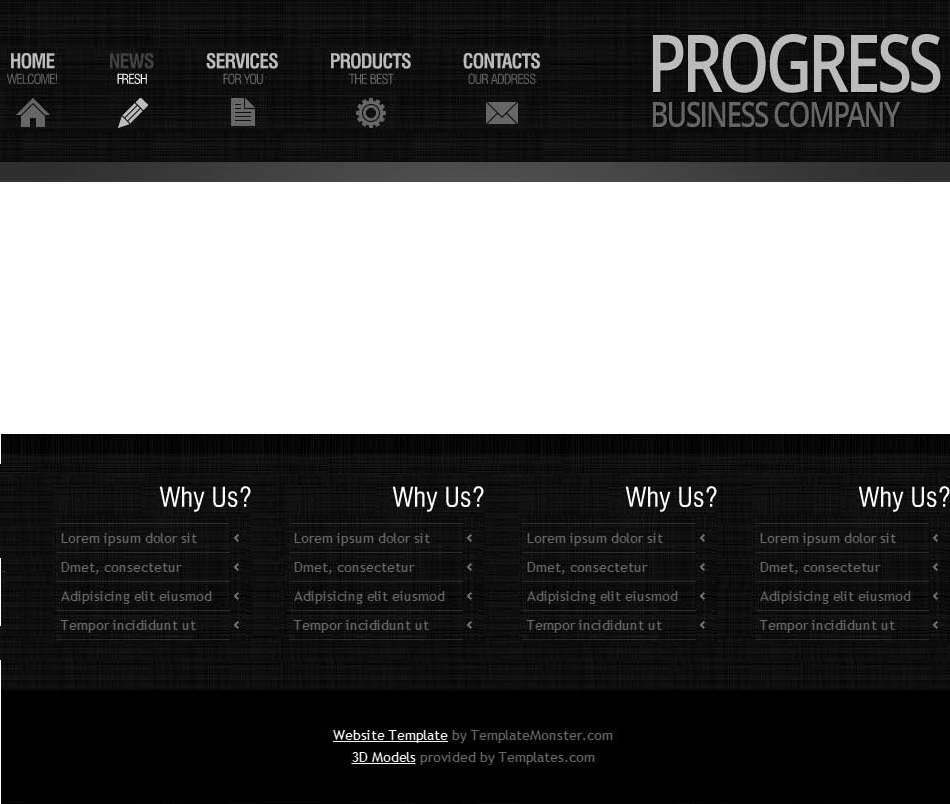
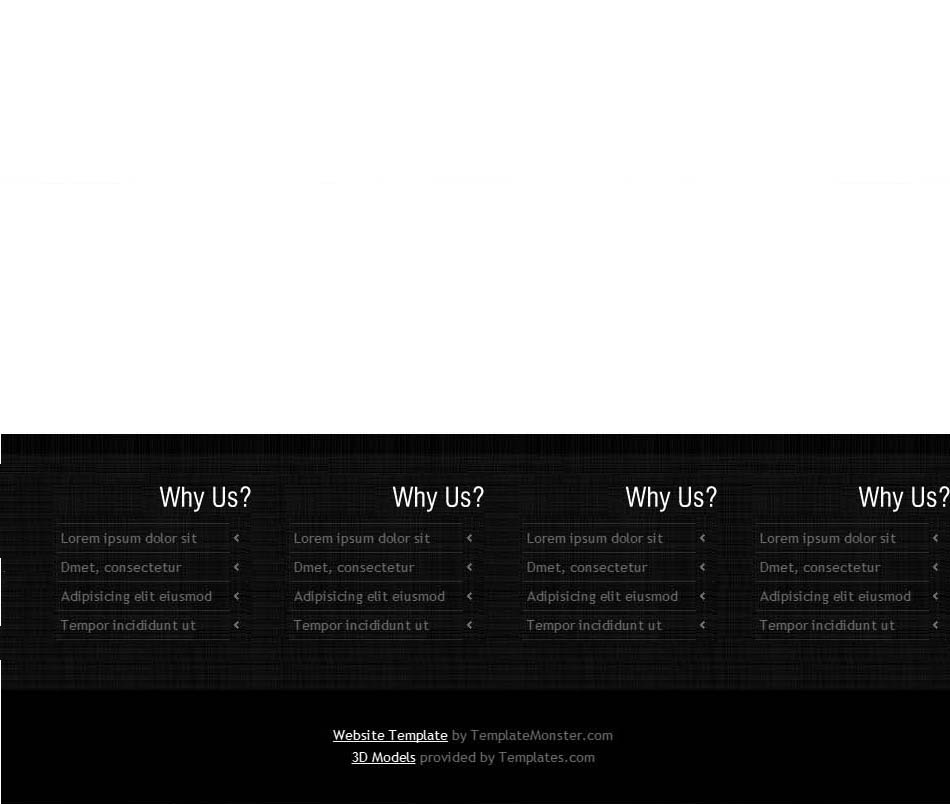
delete back guide and put some color and style to layout.

Changed region(s): [[0.0, 0.0, 1.0, 0.2488]]

diff --git a/Finall Project/index.html b/Finall Project/index.html
@@ -11,7 +11,9 @@
 	
 <div class="container">
 	<header class="header">
-		<hgroup class="logo"></hgroup>
+		<hgroup class="logo">
+			<img src="images/logo.png" width="288px" height="72px" alt="Dr Bijan"></img>
+		</hgroup>
 		<nav class="menu">
 			<ul>
 				<li><a href="#"><span class="up-line">صفحه اصلی</span><span class="down-line">خوش آمدید</span><span class="home-img"></span></a></li>
@@ -30,46 +32,56 @@
 	<footer class="footer">
 		<div>
 			<div class="box">
-				<h1><span>Why Us</span></h1>
+				<h1><span>خدمات</span></h1>
 					<ul>
-						<li>lorem boogh booogh</li>
-						<li>lorem boogh booogh</li>
-						<li>sfsf sdfdsfsdf sdfs</li>
-						<li>ewer werwer </li>dd
+						<li>پاکسازی پوست</li>
+						<li>ویتامینه پوست</li>
+						<li>درمان جوش صورت</li>
+						<li>آبرسانی پوست</li>
+						<li>لایه برداری</li>
 					</ul>
 			</div>
 			<div class="box">
-				<h1><span>Why Us</span></h1>
+				<h1><span>محصولات</span></h1>
 					<ul>
 						<li>lorem boogh booogh</li>
 						<li>lorem boogh booogh</li>
 						<li>sfsf sdfdsfsdf sdfs</li>
-						<li>ewer werwer </li>dd
+						<li>ewer werwer </li>
+						<li>ewer werwer </li>
 					</ul>
 			</div>
 			<div class="box">
-				<h1><span>Why Us</span></h1>
+				<h1><span>همکاران</span></h1>
 					<ul>
 						<li>lorem boogh booogh</li>
 						<li>lorem boogh booogh</li>
 						<li>sfsf sdfdsfsdf sdfs</li>
-						<li>ewer werwer </li>dd
+						<li>ewer werwer </li>
+						<li>ewer werwer </li>
 					</ul>
 			</div>
 			<div class="last-box">
-				<h1><span>Why Us</span></h1>
+				<h1><span>تماس با ما</span></h1>
 					<ul>
 						<li>lorem boogh booogh</li>
 						<li>lorem boogh booogh</li>
 						<li>sfsf sdfdsfsdf sdfs</li>
-						<li>ewer werwer </li>dd
+						<li>ewer werwer </li>
+						<li>ewer werwer </li>
 					</ul>
 			</div>
 			<div class="clear"></div>
 		</div>
-		<div class="copyright"></div>
+		<div class="copyright">
+			<p>کپی رایت 2012 - کلیه حقوق متعلق به دکتر بیژن می باشد</p>
+			<p>طراحی شده توسط تیم ما</p>
+		</div>
+		<div class="clear"></div>
 	</footer>
+	<div class="clear"></div>
 </div>
+<div class="clear"></div>
 
 </body>
 </html>

diff --git a/Finall Project/style.css b/Finall Project/style.css
@@ -1,14 +1,20 @@
 *{
-	outline: 1px dashed red;
+	/* outline: 1px dashed red; */
 }
 
 .clear{
 	clear:both;
+	width: 0;
+	height: 0;
+	min-height: 0;
+	min-width: 0;
+	border: 0 none;
+	padding: 0;
+	margin: 0;
 }
 
 div.container{
 	width: 950px;
-	min-height: 804px;
 	margin: 0 auto;
 	direction: rtl;
 	background-image:url('images/background.jpg');
@@ -16,20 +22,19 @@ div.container{
 }
 
 .header{
-	min-height: 127px;
-	padding-top: 33px;
+	min-height: 110px;
+	padding-top: 50px;
+	background-image: url(images/bg.jpg);
+	background-repeat: repeat;
 }
 
 .logo {
 	float: right;
-	width: 290px;
-	margin-right: 10px;
-	min-height: 93px;
+	margin-right: 80px;
 }
 
 .menu{
 	margin-right: 460px;
-    margin-top: 20px;
 }
 
 nav.menu ul{
@@ -137,7 +142,7 @@ nav.menu li a{
 .green-line{
 	margin-bottom: 50px; /* important for white space bellow of green line*/
 	min-height: 20px;
-	background-image: url('images/green-line.png');
+	background-image: url('images/green-line.jpg');
 	background-repeat: no-repeat;
 	background-position: top;
 }
@@ -148,45 +153,55 @@ section.content-holder{
 
 /*content of each page place in this section-holder*/
 
-
 footer.footer {
 	padding-top: 1px;
+	background-image: url(images/bg.jpg);
+	background-repeat: repeat;
 }
 
-footer.footer > div{
+footer.footer > div{   /* space between boxes and copyright panel*/
 		margin-bottom: 20px;
 }
+
 footer div.box{
 	float: right;
-	width: 237px;
+	width: 215px;
+	padding-left: 22px;
 }
 
 footer div.last-box{
 	margin-right: 712px;
+	padding-left: 22px;
 }
 
 footer div h1 {
-	color: white;
-	font-size: 27px;
+	color: #060;;
+	font-size: 16px;
+	font-weight: bold;
 	font-family: Tahoma;
-	padding-top: 45px;
-	padding-bottom: 20px;
-	vertical-align:bottom;
-
+	padding: 45px 10px 20px 10px;
 }
+
 footer.footer ul{
 	list-style-type:none;
 }
+
 footer.footer ul li{
 	display: block;
-	border-top:1px solid #aaa;
+	border-top:1px dashed #444;
 	padding:7px 7px 9px 0px;
-	color: white;
+	font-family: Tahoma;
+	font-size: 13px;
+	color: #ccc;
 }
-
 
 footer div.copyright{
 	min-height: 35px;
-	padding: 36px 330px 40px;
+	padding: 36px 325px 40px;
+	color: #aaa;
+	font-family: Tahoma;
+	font-size: 12px;
+	text-align: center;
+	background-color: #000;
 }
 
